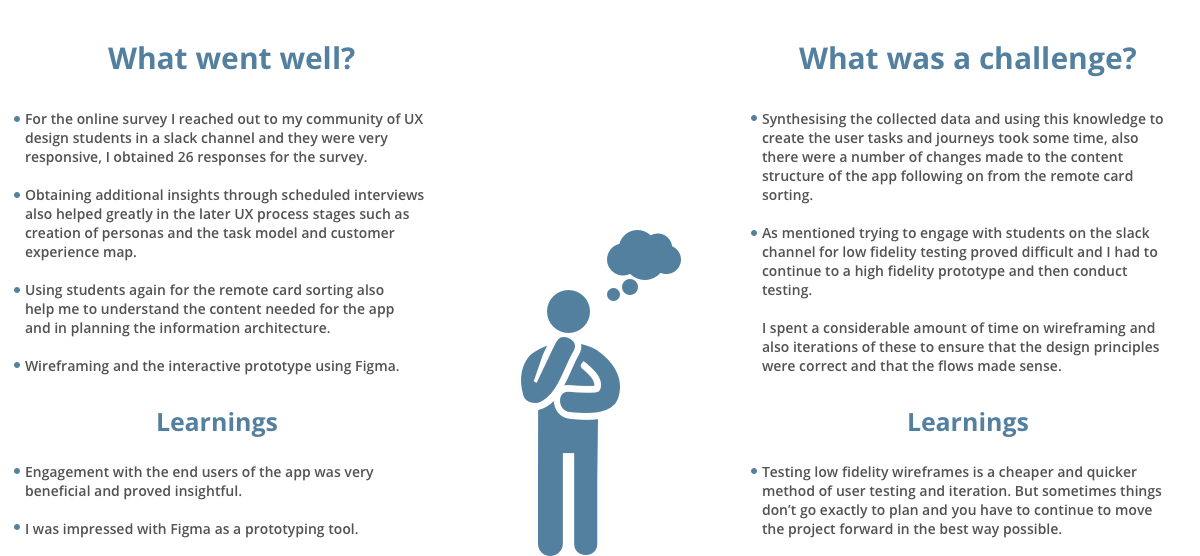
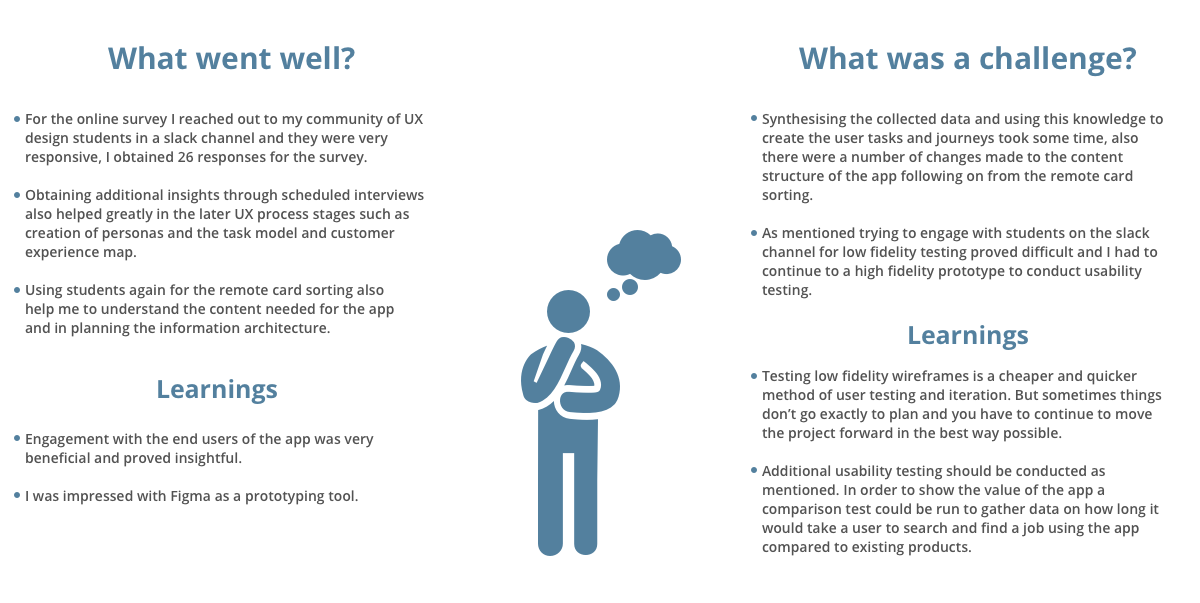
added right track testing

diff --git a/portfolio/righttrack.html b/portfolio/righttrack.html
@@ -876,7 +876,10 @@ addressed.
                       
                  <div class="row">         
 	  	    <div class="col-xs-12 col-sm-6 col-md-6 col-lg-6">
-	  	        <div class="portfolio-detail-body"><b>Job Search Results</b></div>
+	  	      
+	  	        
+	  	         <h3 class="retro-sub-heading">Job Search</h3>
+	  	        
 	  	    
 	  	         <UL  class="portfolio-detail-body ">
 	  	             
@@ -934,7 +937,11 @@ that the user can perform.
 	  	   
 	  	   <div class="row">  
 	  	   <div class="col-xs-12 col-sm-6 col-md-6 col-lg-6">
-	  	         <div class="portfolio-detail-body"><b>Sign In to LinkedIn</b></div>
+	  	       
+	  	         
+	  	            <h3 class="retro-sub-heading">Sign In to Job Board</h3>
+	  	         
+	  	         
 	   <UL  class="portfolio-detail-body ">
 	       <LI> 	   
 Another concern was raised regarding the 'Sign In to LinkedIn' screen. It was felt that this was also 
@@ -973,9 +980,25 @@ For consistency the order that the primary and secondary buttons was changed her
                       </div> <!-- close row -->
                       
              
+             <div class="row">  
+	  	   <div class="col-xs-12 ">
+	  	       <h3 class="retro-sub-heading">Future proposed testing</h3>
+	  	       
+	  	        <p class="portfolio-detail-body image-padding">
+I intend to carry out further testing on the app before development. I would like to carry out moderated usability testing to record how long it 
+would take a user to find and apply to a job using my prototype and run a comparison test with an existing job board such as Irishjobs or LinkedIn. 
+These tests would provide quantitative data that would prove the value of the features that are provided in my ap, such as being able to search from multiple
+job boards without having to move across different browser windows when searching from multiple job boards and also the ability to match exactly to the job title 
+looked for by using the additional filter options.
+                      </p>
+	  	       
+	  	       
+	  	         </div>    
+                      
+                      </div> <!-- close row -->
         
                       
-                          
+                          <div class="portfolio-padding"></div>
          
                       
                       

diff --git a/index.html b/index.html
@@ -96,8 +96,8 @@
       
         <p class=" script ">
       
-    I bring my love of data into the design field, making informed design choices that are based on user insights,
-    resulting in beautiful products that solve problems and add value to people's lives.
+    Bringing my love of data into the design field, I make informed design choices that are based on user insights,
+    resulting in products that solve problems and add value to people's lives.
       </p>
    
   </div>
